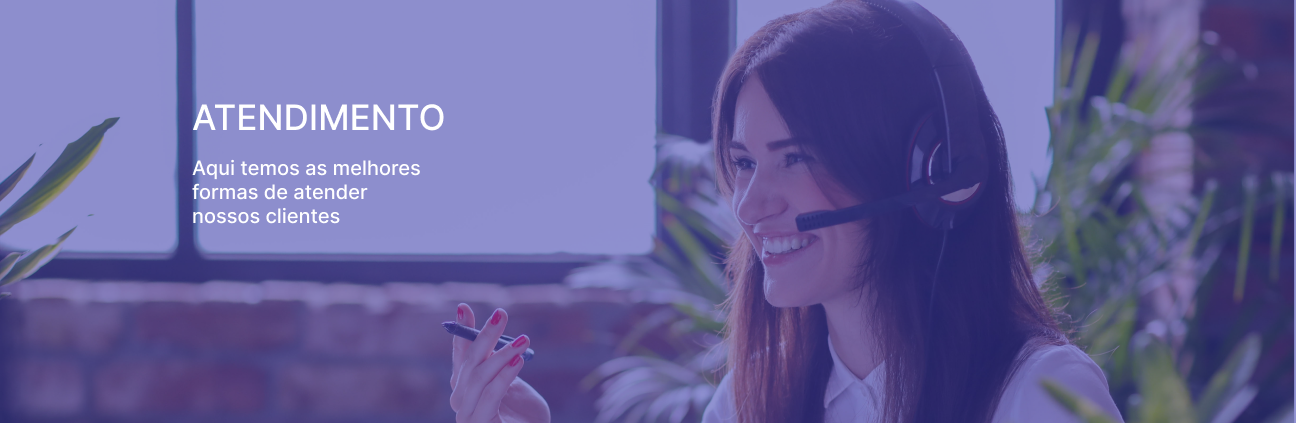
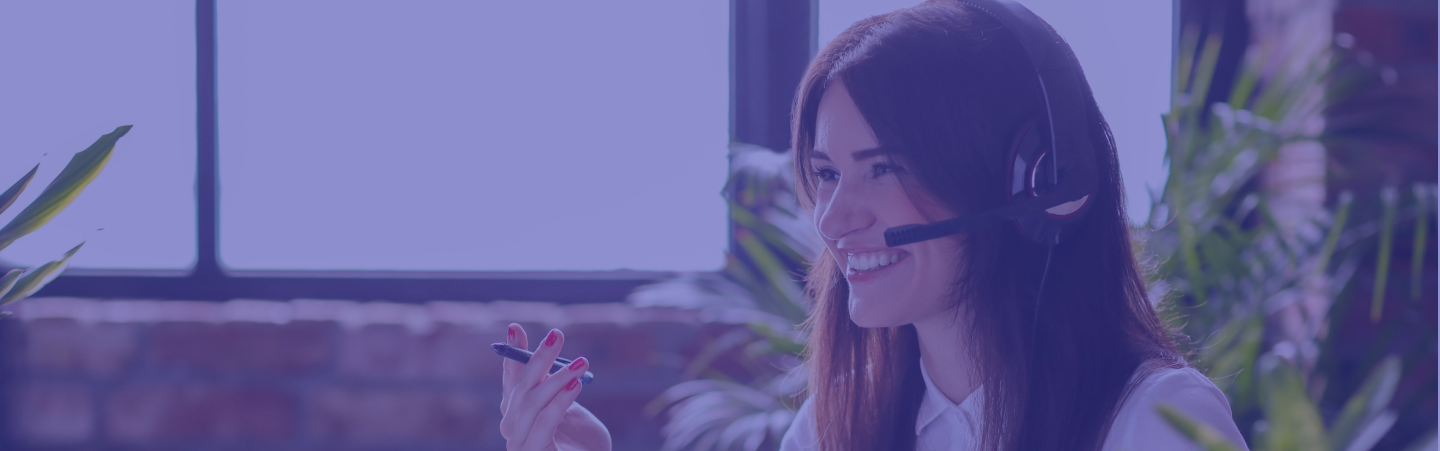
pequenas mudanças

Changed region(s): [[0.1543, 0.3688, 0.3395, 0.5532], [0.1235, 0.2459, 0.3395, 0.3073]]

diff --git a/front-end/css/Atendimento.css b/front-end/css/Atendimento.css
@@ -91,12 +91,27 @@
 }
 
 .imagem-atendimento img {
-    width: 90%;
-    margin-left: 5%;
-    margin-top: 1.5%;
+    width: 100%;
 }
 
-.imagem-atendimento-alternativa{
+.imagem-atendimento{
+    display: inline-block;
+    margin-left: 5%;
+    margin-top: 1.5%;
+    width: 90%;
+    position: relative;
+}
+
+.texto-img {
+    display: flex;
+    position: absolute;
+    color: white;
+    left: 20%;
+    top: 35%;
+    font-size: 60px
+}
+
+.alternative-500px {
     display: none;
 }
 
@@ -275,7 +290,7 @@ footer {
 
 @media (max-width: 500px) {
     .celular-img img {
-        width: 200px;
+        width: 150px;
         margin-right: 100%;
         margin-left: 0;
     }
@@ -292,15 +307,7 @@ footer {
             font-size: smaller;
         }
 
-        .imagem-atendimento {
-            display: none;
-        }
-
-        .imagem-atendimento-alternativa{
-            display: inline;
-        }
-
-        .imagem-atendimento-alternativa img {
+        .imagem-atendimento{
             margin-top: 5%;
             width: 100%;
             margin-left: 0;
@@ -313,7 +320,7 @@ footer {
 
         .accordion{
             width: 100%;
-                margin-left: 0;
+            margin-left: 0;
         }
 }
                 

diff --git a/front-end/css/Sobre-nós.css b/front-end/css/Sobre-nós.css
@@ -99,10 +99,6 @@
     margin-bottom: 3%;
 }
 
-.imagem-sobre-nos-alternativa {
-    display: none;
-}
-
 .devs{
     display: flex;
     flex-direction: column;
@@ -191,15 +187,10 @@
     }
 
     .imagem-sobre-nos img{
-        height: 200px;
         width: 100%;
         margin-left: 0;
+        margin-top: 5%;
     }
-
-    .imagem-sobre-nos {
-        display: none;
-    }
-
     .dev{
         width: 100%;
         margin-left: 0;
@@ -209,16 +200,6 @@
         width: 100%;
     }
 
-    .imagem-sobre-nos-alternativa{
-        display: inline;
-
-    }
-
-    .imagem-sobre-nos-alternativa img{
-        width: 100%;
-        margin-left: 0;
-        margin-top: 5%;
-    }
 }
 
 /*css do footer*/

diff --git a/front-end/site/Sobre-nos.html b/front-end/site/Sobre-nos.html
@@ -57,11 +57,10 @@
     <main>
 
         <div class="imagem-sobre-nos">
-            <img src="../img/Imagem Sobre Nós.jpg" alt="">
+            <img src="../img/Imagem Sobre Nós.png" alt="">
         </div>
-        <div class="imagem-sobre-nos-alternativa">
-            <img src="../img/Imagem Sobre Nós Alternativa.jpg" alt="">
-        </div>
+
+        <h1 class="alternative-500px">Conheça Nossos Devs</h1>
 
         <section class="devs">
             <div class="dev">

diff --git a/front-end/site/Atendimento.html b/front-end/site/Atendimento.html
@@ -58,10 +58,10 @@
 
         <div class="imagem-atendimento">
             <img src="../img/Imagem Atendimento.png" alt="">
+            <h1 class="texto-img">Atendimento</h1>
         </div>
-        <div class="imagem-atendimento-alternativa">
-            <img src="../img/Imagem Atendimento Alternativa.png" alt="">
-        </div>
+
+        <h1 class="alternative-500px">Atendimento</h1>
 
 
         <div class="separador-pagina"></div>
